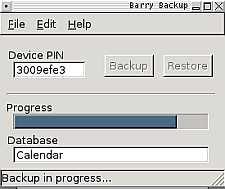
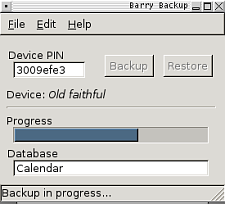
www documentation updates for 0.14

diff --git a/doc/www/index.php b/doc/www/index.php
@@ -7,17 +7,21 @@
 <p>Linux users who also use a BlackBerry &trade; now have an option for
 managing their BlackBerry directly from Linux.</p>
 
-<p>Barry is an Open Source application that will allow synchronization,
+<p>Barry is an Open Source application that will provide synchronization,
 backup, restore and program management for BlackBerry &trade; devices.
 Barry is primarily developed on Linux, but is intended as a cross platform
-library and application set, targetting Linux, BSD, 32/64bit, and big/little
+library and application set, targeting Linux, BSD, 32/64bit, and big/little
 endian systems.
 </p>
 
-<p>Barry is currently in early development, but is reaching stages of
-usefulness.  For example, it is possible to:
+<p>The Barry project began in October 2005 and has steadily added features
+and polish to Blackberry usage on Linux ever since.  We were the first to
+reverse engineer the battery charging handshake via USB.</p>
+
+<p>Today, it is possible to:
 
 <ul>
+	<li> charge your Blackberry's battery from your USB port </li>
 	<li> retrieve Address Book, Email, Calendar, Service Book, Memos,
 		Tasks, PIN Messages, Saved Email, and Folders </li>
 	<li> export Address Book contacts in text or LDAP LDIF format </li>
@@ -34,16 +38,18 @@ usefulness.  For example, it is possible to:
 
 <p>
 <ul>
-	<li>Latest release: <b>0.13</b></li>
+	<li>Latest release: <b>0.14</b></li>
 	<li>Download source and binary packages from
-		<a href="http://sourceforge.net/project/showfiles.php?group_id=153722">Sourceforge</a></li>
+		<a href="http://sourceforge.net/project/showfiles.php?group_id=153722">Sourceforge</a> or the <a href="http://download.opensuse.org/repositories/home:/ndprojects/">OpenSUSE Build Service</a></li>
 	<li>General <a href="http://sourceforge.net/projects/barry/">Sourceforge project page</a></li>
+	<li><a href="http://repo.or.cz/w/barry.git">Barry git repo</a></li>
 	<li>Known Issues:
 	<ul>
 		<li>Restoring backups for some databases on newer Blackberries doesn't work (for example, on the 8120, 8700g)</li>
 		<li>Syncing is not supported on Fedora Core 9, since they packaged the OpenSync 0.3x devel tree</li>
 		<li>Password support when using Blackberry as modem is experimental</li>
 		<li>Accessing the database (such as during a backup) while copying files using the usb_storage kernel module may cause some Blackberries to spontaneously reboot</li>
+		<li>The opensync plugin does not handle international characters well.</li>
 	</ul>
 	</li>
 </ul>

diff --git a/doc/www/cvs.php b/doc/www/cvs.php
@@ -141,8 +141,8 @@ located there automatically.  Make sure you have the needed software
 dependencies installed beforehand.</p>
 
 <p> If you want to generate doxygen documentation, run 'doxygen' from
-within the src/ directory.  The resulting files will be in doc/doxygen/html/.
-Doxygen 1.4.5 has been used to do this, but presumably more recent versions
+root source directory.  The resulting files will be in doc/www/doxygen/html/.
+Doxygen 1.5.1 has been used to do this, but presumably more recent versions
 will work as well.</p>
 
 
@@ -158,7 +158,7 @@ btool:
 	./configure --with-boost=/usr --enable-gui --enable-opensync-plugin
 	make
 	make install
-	cd src && doxygen
+	doxygen
 </pre>
 
 <p>This will give you a set of command line tools (bcharge, btool, breset,
@@ -191,6 +191,27 @@ and copy the file modprobe/blacklist-berry_charge to
 --prefix option on the ./configure command line, you will need to update
 your 10-blackberry.rules file to match.</p>
 
+
+<div class="subHeader">Configure PPP chat scripts for your system</div>
+
+<p>The source tree comes with sample PPP chat scripts for using your
+Blackberry as a modem.  These sample scripts are located under ppp/ in
+your source directory.
+The binary packages install all the ppp options files under /etc/ppp/peers/
+and all the chat scripts (with the *.chat extensions) under
+/etc/chatscripts/.  These directories are important, since the pppd
+program expects to find options files under peers/ and the options files
+reference the chatscripts.</p>
+
+<p>Copy the above samples to their appropriate directories to install
+modem support for your system.  Make sure you have pppd installed as well.</p>
+
+<p>If you install Barry in a location other than /usr, you will need
+to edit the options files to correct the hard coded paths in these
+files.  The files assume that pppob is located in /usr/sbin/pppob.</p>
+
+<p>See the <? createLink("modem", "modem usage"); ?> page for more
+information on using your Blackberry as a modem.</p>
 
 
 <div class="subHeader">Building Barry RPMs from CVS</div>

diff --git a/doc/www/backups.php b/doc/www/backups.php
@@ -17,6 +17,10 @@ GUI can be found on the <? createLink("install", "Install"); ?> page.</p>
 finds one, it assumes that is the device you want to work with.  If it
 finds two, it prompts you to select the device to backup.</p>
 
+<p>When connecting to a device for the first time, you are prompted to
+give the device a name.  This will be linked to the device's PIN number
+for easy identification later.</p>
+
 <p>The main screen presents you with two options: Backup and Restore.</p>
 
 <img src="backup.png" border=1 />
@@ -24,6 +28,9 @@ finds two, it prompts you to select the device to backup.</p>
 <p>When backing up your device, your data is saved in a compressed tar file
 in your home directory, under ~/.barry, organized by PIN number.  Each tar
 backup file is given a timestamp in its filename.</p>
+
+<p>When the backup starts, you are prompted to give the backup an optional
+name.  If you specify a name, it will be used as part of the tar filename.</p>
 
 
 
@@ -54,12 +61,13 @@ the Restore Configuration dialog, as described below.</p>
 
 <p>Configuration is performed via the Edit menu, and provides two
 filters for determining what databases are accessed during backup and
-restore operations.</p>
+restore operations.  You can also change the device name here, and turn
+off the backup name prompt.</p>
 
 <img src="config.png" border=1 />
 
-<p>Each button provides essentially the same dialog, containing a list
-of databases available on your device, as well as checkboxes to
+<p>Each configure button provides essentially the same dialog, containing a
+list of databases available on your device, as well as checkboxes to
 enable them.</p>
 
 <p>For the backup filter, only the enabled databases will be saved.

diff --git a/doc/www/install.php b/doc/www/install.php
@@ -12,10 +12,10 @@ detailed information on the software that Barry needs.</p>
 <div class="subHeader">Binary Packages</div>
 
 <p>Download the matching packages for your system from the
-<a href="http://sourceforge.net/project/showfiles.php?group_id=153722">Sourceforge download page</a>.</p>
+<a href="http://sourceforge.net/project/showfiles.php?group_id=153722">Sourceforge download page</a> or the <a href="http://download.opensuse.org/repositories/home:/ndprojects/">OpenSUSE Build Service page</a>.</p>
 
-<p>Packages are available for multiple distros, and are indicated by
-the filenames:
+<p>On Sourceforge, packages are available for multiple distros, and are
+indicated by the filenames:
 <ul>
 	<li><b>ubuntu710</b> - Ubuntu Gutsy Gibbon, 7.10</li>
 	<li><b>ubuntu804</b> - Ubuntu Hardy Heron, 8.04</li>
@@ -27,11 +27,14 @@ the filenames:
 </ul>
 </p>
 
+<p>On OBS, packages are located in subdirectories per distro.  Be sure to
+select the correct platform, whether 32 bit or 64 bit.</p>
+
 <p>Barry is split up into multiple binary packages.  For example,
 if you want the GUI backup program, you will also need the Barry library.
 For non-development systems, you will need:
 <ul>
-	<li>libbarry</li>
+	<li>libbarry0</li>
 	<li>barry-util</li>
 	<li>barrybackup-gui</li>
 	<li>barry-opensync (libopensync-plugin-barry on Debian systems)</li>

diff --git a/doc/www/sync.php b/doc/www/sync.php
@@ -126,7 +126,7 @@ first sync.</p>
 
 <p>It is recommended that Evolution's backend servers be shutdown before
 the sync is performed.  Therefore, make sure you've closed Evolution,
-and run the following commands to sync, using group you just configured:</p>
+and run the following commands to sync, using the group you just configured:</p>
 
 <pre>
 	evolution --force-shutdown
